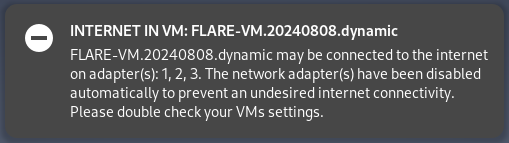
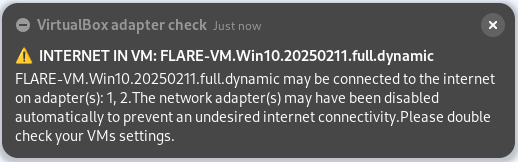
[vbox] Improve README
Improve documentation to reflect latest changes.

diff --git a/virtualbox/README.md b/virtualbox/README.md
@@ -1,6 +1,7 @@
 # VirtualBox scripts
 
 **This folder contains several scripts related to enhance building, exporting, and using FLARE-VM in VirtualBox.**
+The scripts have been tested in Debian 12 with GNOME 44.9.
 
 
 ## Clean up snapshots
@@ -12,7 +13,7 @@ It is not possible to select and delete several snapshots in VirtualBox, making 
 ### Example
 
 ```
-$ ./vbox-remove-snapshots.py FLARE-VM.20240604
+$ ./vbox-remove-snapshots.py FLARE-VM.20240604 --protected empty,clean,done,important
 
 Cleaning FLARE-VM.20240604 🫧 Snapshots to delete:
   Snapshot 1
@@ -61,31 +62,20 @@ See you next time you need to clean up your VMs! ✨
 ## Check internet adapter status
 
 [`vbox-adapter-check.py`](vbox-adapter-check.py) prints the status of all internet adapters of all VMs in VirtualBox.
-The script also notifies if any dynamic analysis VM (with `.dynamic` in the name) has an adapter whose type is not allowed (internet access is undesirable for dynamic malware analysis).
-Unless the argument `--do_not_modify` is provided, the script changes the type of the adapters with non-allowed type to Host-Only.
-Unless the argument `--skip_disabled` is provided, the script also explores the disabled adapters, printing their status and possibly changing their type.
-The script has been tested in Debian 12 with GNOME 44.9.
+If the argument `--dynamic_only` is provided, the script only print the status of the dynamic analysis VM (with `.dynamic` in the name).
+Unless the argument `--do_not_modify` is provided, if internet is detected in any dynamic analysis VM, the script sends a notification and changes the adapters type to Host-Only.
+The script is useful to detect internet access, which is undesirable for dynamic malware analysis.
 
 ### Example
 
 ```
-$ ./vbox-adapter-check.py
-windows10 1: Enabled  HostOnly
-windows10 2: Disabled Null
-windows10 3: Disabled Null
-windows10 4: Disabled Null
-windows10 5: Disabled Null
-windows10 6: Disabled Null
-windows10 7: Disabled Null
-windows10 8: Disabled Null
-FLARE-VM.20240808.dynamic 1: Enabled  NAT
-FLARE-VM.20240808.dynamic 2: Disabled NAT
-FLARE-VM.20240808.dynamic 3: Disabled Bridged
-FLARE-VM.20240808.dynamic 4: Enabled  Internal
-FLARE-VM.20240808.dynamic 5: Disabled Null
-FLARE-VM.20240808.dynamic 6: Disabled Null
-FLARE-VM.20240808.dynamic 7: Disabled Null
-FLARE-VM.20240808.dynamic 8: Disabled Null
+$ ~/github/flare-vm/virtualbox/vbox-adapter-check.py
+VM {2bc66f50-9ecb-4b10-a4dd-0cc329bc383d} ⚠  FLARE-VM.testing is connected to the internet on adapter(s): 1
+VM {a23c0c37-2062-4cf0-882b-9e9747dd33b6} ✅ REMnux.20241217.dynamic network configuration is ok
+VM {fa0b3733-50cb-43fd-8428-745d0e9159cb} ✅ FLARE-VM.Win10.20250211.dynamic network configuration is ok
+VM {e5f509ed-cbc8-4abc-b052-664246207e89} ⚠  FLARE-VM.Win10.20250211.full.dynamic is connected to the internet on adapter(s): 1, 2
+VM {e5f509ed-cbc8-4abc-b052-664246207e89} ⚙  FLARE-VM.Win10.20250211.full.dynamic set adapter 1 to hostonly
+VM {e5f509ed-cbc8-4abc-b052-664246207e89} ⚙  FLARE-VM.Win10.20250211.full.dynamic set adapter 2 to hostonly
 ```
 
 #### Notification
@@ -130,7 +120,7 @@ This configuration file specifies the VM name, the exported VM name, and details
 Individual snapshot configurations can include custom commands to be executed within the guest, legal notices to be applied, and file/folder exclusions for the automated cleanup process.
 See configuration example files in the [`configs`](configs/) directory.
 
-The `BUILD-READY` snapshot is expected to be an empty Windows installation that satisfies the FLARE-VM installation requirements and has UAC disabled
+The `BUILD-READY` snapshot is expected to be an empty Windows installation that satisfies the FLARE-VM installation requirements and has UAC disabled.
 To disable UAC execute in a cmd console with admin rights and restart the VM for the change to take effect:
 ```
 %windir%\System32\reg.exe ADD HKLM\SOFTWARE\Microsoft\Windows\CurrentVersion\Policies\System /v EnableLUA /t REG_DWORD /d 0 /f
